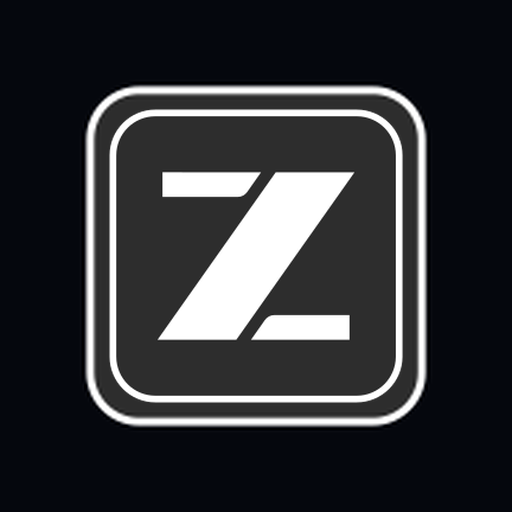
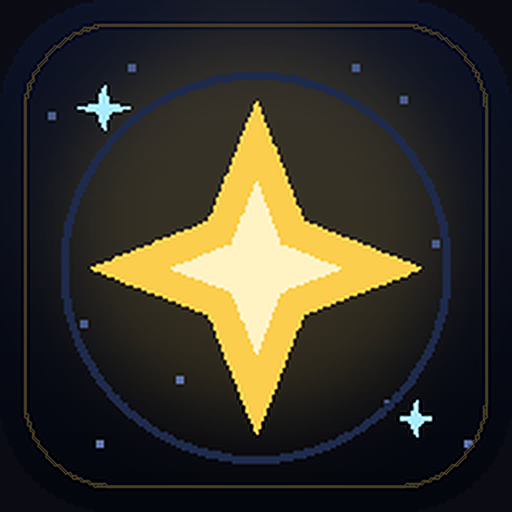
Windows EXE 데스크톱 패키지 v1.0.6 — Electron main.js 재설계(정적 export 내장 서버+/api Vercel 프록시·F11 전체화면·autoplay 해제)·빌드타깃 nsis+portable x64·게임 아이콘 교체·three 의존성 package.json 정식 등록(컨테이너 리셋 소실 방지)

diff --git a/electron/main.js b/electron/main.js
@@ -1,100 +1,141 @@
 /**
- * SERTZ Desktop (v3.0.8) — Electron 메인 프로세스
- *  - 내장 Next.js 게임 서버(server.js + socket.io)를 자식 프로세스로 기동
- *    (ELECTRON_RUN_AS_NODE=1 → Electron 바이너리를 Node로 사용, 별도 Node 불필요)
- *  - 준비되면 BrowserWindow로 http://127.0.0.1:<port> 로딩
- *  - 종료 시 서버 프로세스 트리까지 정리 (Windows: taskkill /T /F)
+ * SERTZ Desktop (v1.0.6 / vc146) — Electron 메인 프로세스
+ *  · APK와 동일한 정적 export(.next-apk 산출물)를 electron/game/ 에 내장
+ *  · 내장 HTTP 서버가 game/ 을 서빙 + /api/* 는 https://sertz.vercel.app 로 투명 프록시
+ *    (게임 코드 수정 0 — server.ts resolveApiBase()는 Electron UA면 same-origin을 사용)
+ *  · 계정/거래소/랭킹/채팅/파티/버전게이트 전부 Vercel serverless 실값 사용
+ *  · 멀티플레이는 클라이언트 직결 HiveMQ MQTT(wss) — 로컬 서버 무관
  */
 const { app, BrowserWindow, Menu, dialog, shell } = require("electron");
-const { spawn } = require("child_process");
 const http = require("node:http");
 const path = require("node:path");
 const fs = require("node:fs");
 
 const PORT_CANDIDATES = [37815, 42117, 46223];
-const READY_TIMEOUT_MS = 45_000;
+const GAME_DIR = path.join(__dirname, "game");
+const API_UPSTREAM = "https://sertz.vercel.app";
+const READY_TIMEOUT_MS = 20_000;
 
-let serverProc = null;
+let server = null;
 let win = null;
 let quitting = false;
 
-function isPortFree(port) {
-  return new Promise((resolve) => {
-    const srv = http.createServer();
-    srv.once("error", () => resolve(false));
-    srv.once("listening", () => srv.close(() => resolve(true)));
-    srv.listen(port, "127.0.0.1");
+/* ---------- MIME ---------- */
+const MIME = {
+  ".html": "text/html; charset=utf-8",
+  ".js": "application/javascript; charset=utf-8",
+  ".mjs": "application/javascript; charset=utf-8",
+  ".css": "text/css; charset=utf-8",
+  ".json": "application/json; charset=utf-8",
+  ".txt": "text/plain; charset=utf-8",
+  ".png": "image/png",
+  ".jpg": "image/jpeg",
+  ".jpeg": "image/jpeg",
+  ".gif": "image/gif",
+  ".webp": "image/webp",
+  ".avif": "image/avif",
+  ".svg": "image/svg+xml",
+  ".ico": "image/x-icon",
+  ".woff": "font/woff",
+  ".woff2": "font/woff2",
+  ".ttf": "font/ttf",
+  ".mp3": "audio/mpeg",
+  ".ogg": "audio/ogg",
+  ".wav": "audio/wav",
+  ".m4a": "audio/mp4",
+  ".wasm": "application/wasm",
+  ".map": "application/json",
+  ".webmanifest": "application/manifest+json",
+};
+
+function sendFile(req, res, fp, status = 200) {
+  const ext = path.extname(fp).toLowerCase();
+  // _next 정적자산은 불변 캐시, 그 외는 매 실행 재검증(업데이트 반영)
+  const immutable = fp.includes(`${path.sep}_next${path.sep}`);
+  res.writeHead(status, {
+    "Content-Type": MIME[ext] || "application/octet-stream",
+    "Content-Length": fs.statSync(fp).size,
+    "Cache-Control": immutable ? "public, max-age=31536000, immutable" : "no-cache",
   });
+  fs.createReadStream(fp).pipe(res);
 }
 
-function waitReady(port) {
-  return new Promise((resolve) => {
-    const started = Date.now();
-    const tick = () => {
-      if (quitting) return resolve(false);
-      const req = http.get({ host: "127.0.0.1", port, path: "/", timeout: 2500 }, (res) => {
-        res.resume();
-        resolve(res.statusCode != null && res.statusCode < 500);
-      });
-      req.on("error", () => {
-        if (Date.now() - started > READY_TIMEOUT_MS) resolve(false);
-        else setTimeout(tick, 500);
-      });
-      req.on("timeout", () => req.destroy(new Error("poll timeout")));
-    };
-    tick();
+function serveStatic(req, res) {
+  try {
+    let urlPath = decodeURIComponent((req.url || "/").split("?")[0]);
+    if (urlPath.includes("..")) urlPath = "/404.html";
+    let fp = path.join(GAME_DIR, urlPath);
+    if (!fp.startsWith(GAME_DIR)) fp = path.join(GAME_DIR, "404.html");
+    if (fs.existsSync(fp) && fs.statSync(fp).isDirectory()) fp = path.join(fp, "index.html");
+    if (!fs.existsSync(fp)) {
+      // Next.js export 보정: /foo → foo.html, /foo/ → foo/index.html
+      const alt = urlPath.endsWith("/") ? path.join(GAME_DIR, urlPath, "index.html")
+        : path.join(GAME_DIR, urlPath + ".html");
+      if (fs.existsSync(alt)) fp = alt;
+      else if (fs.existsSync(path.join(GAME_DIR, "404.html"))) {
+        return sendFile(req, res, path.join(GAME_DIR, "404.html"), 404);
+      } else {
+        res.writeHead(404, { "Content-Type": "text/plain" });
+        return res.end("404");
+      }
+    }
+    sendFile(req, res, fp);
+  } catch (e) {
+    res.writeHead(500, { "Content-Type": "text/plain" });
+    res.end("server error");
+  }
+}
+
+/* ---------- /api/* → Vercel 투명 프록시 ---------- */
+function proxyApi(req, res) {
+  const upstream = new URL(API_UPSTREAM + req.url);
+  const headers = { ...req.headers };
+  delete headers.host;
+  delete headers.origin;
+  delete headers.referer;
+  const preq = http.request(
+    { protocol: "https:", hostname: upstream.hostname, port: 443, path: upstream.pathname + upstream.search, method: req.method, headers },
+    (pres) => {
+      // 쿠키 Domain 속성 제거(로컬 오리진 127.0.0.1 귀속 — 보안콘텍스트 localhost 계열이라 Secure 유지 가능)
+      const sc = pres.headers["set-cookie"];
+      if (sc) pres.headers["set-cookie"] = sc.map((c) => c.replace(/;\s*domain=[^;]+/gi, ""));
+      res.writeHead(pres.statusCode || 502, pres.headers);
+      pres.pipe(res);
+    }
+  );
+  preq.setTimeout(15000, () => preq.destroy(new Error("upstream timeout")));
+  preq.on("error", () => {
+    if (!res.headersSent) {
+      res.writeHead(502, { "Content-Type": "application/json; charset=utf-8" });
+      res.end(JSON.stringify({ ok: false, error: "오프라인 — Vercel API에 연결할 수 없습니다" }));
+    } else res.end();
   });
+  req.pipe(preq);
 }
 
 function startServer() {
-  return new Promise(async (resolve) => {
-    const gameDir = path.join(__dirname, "game");
-    const serverPath = path.join(gameDir, "server.js");
-    if (!fs.existsSync(serverPath)) {
-      dialog.showErrorBox("SERTZ 오류", "게임 서버 파일(game/server.js)을 찾을 수 없습니다.");
+  return new Promise((resolve) => {
+    if (!fs.existsSync(path.join(GAME_DIR, "index.html"))) {
+      dialog.showErrorBox("SERTZ 오류", "게임 파일(game/index.html)을 찾을 수 없습니다.");
       return resolve(null);
     }
-    const logPath = path.join(gameDir, "server.log");
-    const logFd = fs.openSync(logPath, "a");
-    fs.writeSync(logFd, `\n===== SERTZ Desktop launch ${new Date().toISOString()} =====\n`);
-
-    for (const port of PORT_CANDIDATES) {
-      if (quitting) return resolve(null);
-      if (!(await isPortFree(port))) continue;
-      const env = { ...process.env, ELECTRON_RUN_AS_NODE: "1", NODE_ENV: "production", PORT: String(port) };
-      serverProc = spawn(process.execPath, [serverPath], {
-        cwd: gameDir,
-        env,
-        stdio: ["ignore", logFd, logFd],
-        windowsHide: true,
-      });
-      const ok = await waitReady(port);
-      if (ok) {
-        try { fs.writeFileSync(path.join(gameDir, ".port"), String(port)); } catch {}
-        return resolve(port);
+    const tryListen = (port) => {
+      if (quitting || !port) {
+        if (!quitting) dialog.showErrorBox("SERTZ 서버 오류", "사용 가능한 로컬 포트가 없습니다.");
+        return resolve(null);
       }
-      // 이 포트 실패 → 프로세스 정리 후 다음 후보
-      killServer();
-      serverProc = null;
-    }
-    dialog.showErrorBox(
-      "SERTZ 서버 오류",
-      "내장 게임 서버 시작에 실패했습니다.\n로그: " + logPath
-    );
-    resolve(null);
+      server = http.createServer((req, res) => {
+        if ((req.url || "").startsWith("/api/")) proxyApi(req, res);
+        else serveStatic(req, res);
+      });
+      server.once("error", () => {
+        server = null;
+        tryListen(PORT_CANDIDATES[PORT_CANDIDATES.indexOf(port) + 1]);
+      });
+      server.listen(port, "127.0.0.1", () => resolve(port));
+    };
+    tryListen(PORT_CANDIDATES[0]);
   });
-}
-
-function killServer() {
-  if (!serverProc || serverProc.exitCode != null) return;
-  try {
-    if (process.platform === "win32") {
-      spawn("taskkill", ["/pid", String(serverProc.pid), "/T", "/F"], { windowsHide: true });
-    } else {
-      serverProc.kill("SIGTERM");
-      setTimeout(() => { try { serverProc && serverProc.kill("SIGKILL"); } catch {} }, 3000);
-    }
-  } catch {}
 }
 
 function createWindow(port) {
@@ -107,6 +148,7 @@ function createWindow(port) {
     title: "SERTZ — 바다의 수호자: 아뜰란티스",
     autoHideMenuBar: true,
     show: false,
+    icon: path.join(__dirname, "icon.png"),
     webPreferences: {
       contextIsolation: true,
       nodeIntegration: false,
@@ -116,12 +158,20 @@ function createWindow(port) {
   Menu.setApplicationMenu(null);
   win.loadURL(`http://127.0.0.1:${port}/`);
   win.once("ready-to-show", () => win.show());
+  // F11 전체화면 토글
+  win.webContents.on("before-input-event", (_e, input) => {
+    if (input.type === "keyDown" && input.key === "F11") {
+      win.setFullScreen(!win.isFullScreen());
+    }
+  });
   win.webContents.setWindowOpenHandler(({ url }) => {
     if (/^https?:/i.test(url)) shell.openExternal(url);
     return { action: "deny" };
   });
   win.on("closed", () => { win = null; });
 }
+
+app.commandLine.appendSwitch("autoplay-policy", "no-user-gesture-required");
 
 const gotLock = app.requestSingleInstanceLock();
 if (!gotLock) {
@@ -142,5 +192,8 @@ if (!gotLock) {
   });
 
   app.on("window-all-closed", () => app.quit());
-  app.on("before-quit", () => { quitting = true; killServer(); });
+  app.on("before-quit", () => {
+    quitting = true;
+    try { server && server.close(); } catch {}
+  });
 }

diff --git a/worklog.md b/worklog.md
@@ -4050,3 +4050,39 @@ Stage Summary:
 - vc146 = 피드백 10종 전량 + **첫 정식 릴리스 v1.0.6**(웹 라이브 code:146 · SERTZ-vc146.apk/aab/mapping — 덮어설치 호환)
 - 유저 테스트 포인트: ①[GM] 엘릭서 계속 마시기(사라짐 0) ②Lv200/GM 5차에서 Q키·보라 버튼 — 제2궁극기 12종 체감 ③화면 밝기 하향 체감 ④APK 버전 1.0.6 표기 ⑤2.5D 시점(설정 O에서 끔/켬 비교) ⑥무릉도장 DPS 표시 ⑦PC 보스 격파 3D 폭발이 이제 올바른 위치에 뜸 ⑧챕터 진입 게이트 상향 체감 ⑨거래소에서 엘릭서·장비 등록 ⑩장시간 플레이 강종 빈도
 - 비고: 릴리스 v1.0.6 태그는 9월 실험분이 이미 존재했음(스태일 APK 동봉) — 정리 완료. 이터널 제2궁극기(시간 역행)는 rollDamage 로그 기반이라 다른 궁극기와 중첩 시 천문학적 피해 가능(설계 의도 — "거스르는 시간")
+
+---
+Task ID: vc146-web-apk-ios
+Agent: Super Z (main)
+Task: 유저 지시 "1. 웹빌드&apk(aab 제외) 빌드하기 2. ios 빌드방법" — 웹 라이브 검증·APK 재빌드 릴리스·iOS 파이프라인 vc146 전환+재빌드
+
+Work Log:
+- [환경] 컨테이너 상태 양호 — JDK(/home/z/jdk 21.0.12.1)·SDK(android-36)·node_modules·.secrets/vercel_token 전부 생존, HEAD=e29ad837(작업트리 클린, origin 일치)에서 착수
+- [웹] 라이브 이미 code:146(1.0.6) READY 확인 — 커밋 푸시 체인으로 apk-guide 신해시 배포(dpl_GDWKoWzPbTPPJTw9 READY)·라이브 가이드 md5 2a15a7fe 실측·/api/version 1.0.6/146 응답 확인
+- [APK 재빌드] nohup 백그라운드 시도가 즉사(로그 1행, 이전 세션 "동기식 포그라운드 청크" 철칙 재확인) → 3청크 포그라운드로 전환: ①라우트 7종 격리+APK_EXPORT next build(성공) ②cap sync android 0.755s ③gradle assembleRelease 4m06s BUILD SUCCESSFUL
+- [APK 검증] versionCode 146·versionName 1.0.6·146,105,829B·서명 cc774f34...(기존 키 동일 — 덮어설치 호환)·md5 2a15a7feffb536b53121071bc0393e9c/sha1 ded1ee0054459ee9452aa1ae48d4448b6d0fbafc
+- [릴리스] scripts/vc146_reupload_apk.py 신설(urllib 업로드+무결성) — 기존 자산 DELETE 204→업로드 201→다운로드 md5 대조 PASS·v1.0.6 릴리스 자산 4종 체제(ipa 포함)·download/SERTZ-vc146.apk 신빌드로 동기화
+- [apk-guide] 웹 권위본 해시 갱신(466d01c9→2a15a7fe·146104861→146105829B) — APK 내장 가이드는 구조상 한 빌드 뒤(자기 해시 기재 불가 역설)라 웹본만 갱신이 정답
+- [iOS 파이프라인 갱신] ios-build.yml의 vc142 잔존분 전부 vc146으로 전환(산출물명·아티팩트명·릴리스 첨부 태그 v1.0.5-beta→v1.0.6) — grep 잔존 0건 확인 후 커밋 4f5e6856 푸시 → push paths 매칭으로 iOS 빌드 #3 자동 트리거
+- [iOS #3 성공→결함 발견] IPA 148,295,040B 첨부 완료·zip 4,645엔트리·웹에셋 4,354·GAD/GS plist OK — 그러나 Info.plist 파싱에서 CFBundleShortVersionString **1.0.5**·CFBundleVersion **142** 검출(pbxproj 버전 변수가 vc142 이후 무갱신 — 3회 iOS 빌드 전부 구버전 표기였던 누적 결함)
+- [정정] pbxproj MARKETING_VERSION 1.0.6·CURRENT_PROJECT_VERSION 146(2处씩 4행) 수정 → 커밋 ee765f09 푸시 → iOS 빌드 #4 자동 트리거(올바른 1.0.6(146) IPA로 릴리스 --clobber 예정)
+- [Vercel 정리] 다음 세션 토큰 생존 시 vercel_cleanup.py 실행 권장(현재 배포 3개 누적)
+
+Stage Summary:
+- 웹 code:146 라이브 · SERTZ-vc146.apk(146,105,829B·md5 2a15a7fe..) 재빌드 릴리스 완료(AAB는 유저 지시대로 기존분 유지·미재빌드) · iOS 빌드 방법: Actions 탭→iOS Build→Run workflow(또는 ios/** 푸시 자동)→릴리스 v1.0.6 자동 첨부→Sideloadly/TrollStore/AltStore 사이드로드
+- 핵심 발견·수리: iOS pbxproj 버전 변수 142→146 정정(1.0.5(142) IPA 3회 연속 빌드 결함 근원 차단) — 빌드 #4로 정식 1.0.6(146) IPA 교체 진행 중
+- 유저 안내 필요: iOS IPA는 unsigned — 설치 방법 3종(Sideloadly 무료 7일/TrollStore iOS≤16.6.1/본인 p12+zsign) 안내 예정
+
+---
+Task ID: vc146-web-apk-ios (후속 완료)
+Agent: Super Z (main)
+Task: iOS 빌드 #4 완료 검증 + Vercel 정리 — vc146-web-apk-ios 태스크 종결
+
+Work Log:
+- [Vercel 정리] vercel_cleanup.py run --yes → 3개 삭제(KEEP 라이브+롤백 2개 유지) — 토큰 생존 세션에서 정리 체인 정상 가동
+- [iOS #4] run 38392155384 성공(~6분) — 정정 pbxproj(ee765f09)로 재빌드·릴리스 --clobber 업로드(148,295,077B·11:48:35)
+- [IPA 최종 검증] 다운로드 후 plistlib 파싱 — CFBundleShortVersionString **1.0.6**·CFBundleVersion **146**·bundle com.sertz.myapp·웹에셋 4,354·엔트리 4,645·GAD ID 확인 — 임시파일 정리
+
+Stage Summary:
+- 최종 체제: 웹 sertz.vercel.app code:146(1.0.6) · 릴리스 v1.0.6 자산 4종(SERTZ-vc146.apk 146,105,829B md5 2a15a7fe.. / .aab / mapping / SERTZ-vc146-ios-unsigned.ipa 148,295,077B md5 d947425b.. **1.0.6(146)**)
+- iOS 빌드 방법 확정: ①Actions 탭→iOS Build→Run workflow(수동) ②ios/** 포함 커밋 푸시 시 자동 ③산출물은 릴리스 v1.0.6에 자동 첨부 ④설치는 Sideloadly(무료 7일 재서명)/TrollStore(iOS 16.6.1 이하)/본인 p12+zsign
